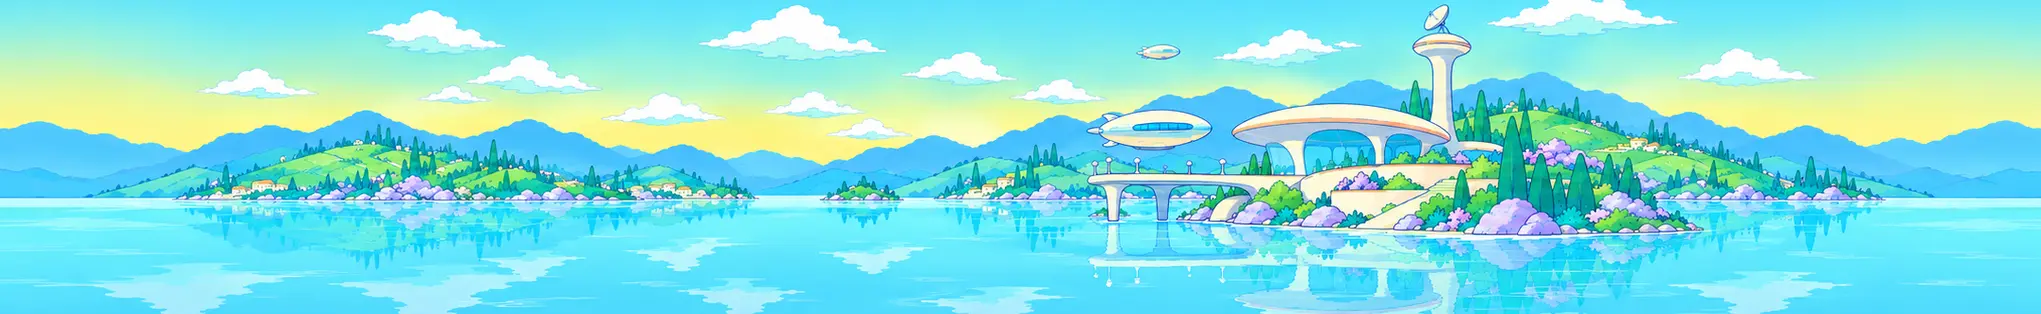
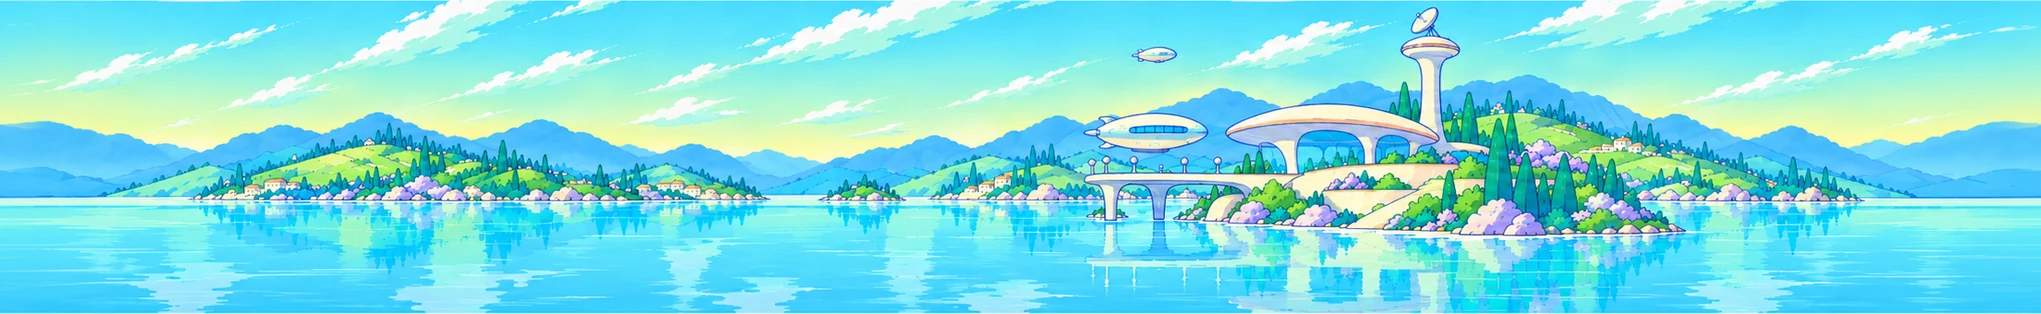
LOCAL: sub-page heroes replaced with style-7 panoramas

diff --git a/site/company.html b/site/company.html
@@ -19,7 +19,7 @@
 <link rel="preconnect" href="https://fonts.googleapis.com">
 <link rel="preconnect" href="https://fonts.gstatic.com" crossorigin>
 <link rel="stylesheet" href="https://fonts.googleapis.com/css2?family=Noto+Sans+JP:wght@400;500&amp;family=Noto+Serif+JP:wght@500;600&amp;display=swap">
-<link rel="stylesheet" href="styles.css?v=1792550775">
+<link rel="stylesheet" href="styles.css?v=1792551392">
 <script>document.documentElement.classList.add('js')</script>
 
 </head>
@@ -33,7 +33,7 @@
 </div>
 </header>
 <section class="page-hero">
-<div class="hero-bg"><img src="images/hero65_company.webp" alt="" width="1500" height="375" style="object-position:50% 50%;--mpos:50% 50%"></div>
+<div class="hero-bg"><img src="images/hero65_company.webp?v=9" alt="" width="2041" height="314" style="object-position:50% 50%;--mpos:50% 50%"></div>
 <div class="container" data-en="COMPANY"><p class="eyebrow">COMPANY</p><h1>法人概要</h1><nav class="breadcrumb" aria-label="パンくず"><a href="index.html">TOP</a> &gt; COMPANY</nav></div>
 </section>
 <main id="main"><section class="section"><div class="container split"><div class="split-head"><div class="section-head reveal"><p class="eyebrow">ABOUT US</p><h2 class="section-title">私たちについて</h2></div></div><div class="about-grid"><article class="about-card reveal"><h3>CELLACTは、再生医療の可能性を追求し、安全で質の高い医療をお届けします。</h3><p>CELLACTは、幹細胞療法や免疫細胞療法などの再生医療に取り組んでいます。日本では、2014年に再生医療等安全性確保法が施行され、厳格な規制のもとでの治療が求められています。私たちはこの法律を遵守し、安全かつ高度な再生医療の実践に努めています。完全予約制のプライベートな環境で、国内外の患者様一人ひとりに向き合っています。</p></article><article class="about-card reveal"><h3>細胞の品質と安全管理を大切に、一人ひとりに最適な再生医療を。</h3><p>再生医療において、治療に用いる細胞の品質と、それを支える技術の信頼性は極めて重要です。徹底した品質管理のもとで培養された細胞を用いることで、患者様一人ひとりに安心して治療を受けていただける環境を提供しています。再生医療に精通した医師が協力しながら診療を行い、患者様それぞれに最適な治療プランを設計します。</p></article></div></div></section>
@@ -74,6 +74,6 @@
 <div class="copy"><span>&copy; 2026 一般社団法人 CELLACT. All rights reserved.</span></div>
 </div>
 </footer>
-<script src="script.js?v=1792550775" defer></script>
+<script src="script.js?v=1792551392" defer></script>
 </body>
 </html>

diff --git a/site/news-archive.html b/site/news-archive.html
@@ -19,7 +19,7 @@
 <link rel="preconnect" href="https://fonts.googleapis.com">
 <link rel="preconnect" href="https://fonts.gstatic.com" crossorigin>
 <link rel="stylesheet" href="https://fonts.googleapis.com/css2?family=Noto+Sans+JP:wght@400;500&amp;family=Noto+Serif+JP:wght@500;600&amp;display=swap">
-<link rel="stylesheet" href="styles.css?v=1792550775">
+<link rel="stylesheet" href="styles.css?v=1792551392">
 <script>document.documentElement.classList.add('js')</script>
 
 </head>
@@ -33,7 +33,7 @@
 </div>
 </header>
 <section class="page-hero">
-<div class="hero-bg"><img src="images/hero65_news.webp" alt="" width="1500" height="375" style="object-position:50% 50%;--mpos:84% 50%"></div>
+<div class="hero-bg"><img src="images/hero65_news.webp?v=9" alt="" width="2041" height="314" style="object-position:50% 50%;--mpos:66% 50%"></div>
 <div class="container" data-en="NEWS"><p class="eyebrow">NEWS</p><h1>お知らせ</h1><nav class="breadcrumb" aria-label="パンくず"><a href="index.html">TOP</a> &gt; NEWS</nav></div>
 </section>
 <main id="main"><section class="section"><div class="container-narrow"><div class="section-head reveal"><p class="eyebrow">NEWS ARCHIVE</p><h2 class="section-title">お知らせ一覧</h2></div><ul class="news-list reveal"><li><a href="news-20270110-recruit.html"><time datetime="2027-01-10">2027.01.10</time><span class="tag warm">採用情報</span><span class="ttl">医療スタッフ募集のお知らせ</span><span class="chev" aria-hidden="true">→</span></a></li><li><a href="news-20270101-rename.html"><time datetime="2027-01-01">2027.01.01</time><span class="tag">クリニック情報</span><span class="ttl">N2クリニック銀座本院は「セルアクト クリニック銀座（CELLACT CLINIC GINZA）」へ名称変更しました。</span><span class="chev" aria-hidden="true">→</span></a></li><li><a href="news-20270101-renewal.html"><time datetime="2027-01-01">2027.01.01</time><span class="tag">お知らせ</span><span class="ttl">公式サイトをリニューアルしました。</span><span class="chev" aria-hidden="true">→</span></a></li></ul></div></section></main><footer class="site-footer">
@@ -49,6 +49,6 @@
 <div class="copy"><span>&copy; 2026 一般社団法人 CELLACT. All rights reserved.</span></div>
 </div>
 </footer>
-<script src="script.js?v=1792550775" defer></script>
+<script src="script.js?v=1792551392" defer></script>
 </body>
 </html>

diff --git a/site/recruit.html b/site/recruit.html
@@ -19,7 +19,7 @@
 <link rel="preconnect" href="https://fonts.googleapis.com">
 <link rel="preconnect" href="https://fonts.gstatic.com" crossorigin>
 <link rel="stylesheet" href="https://fonts.googleapis.com/css2?family=Noto+Sans+JP:wght@400;500&amp;family=Noto+Serif+JP:wght@500;600&amp;display=swap">
-<link rel="stylesheet" href="styles.css?v=1792550775">
+<link rel="stylesheet" href="styles.css?v=1792551392">
 <script>document.documentElement.classList.add('js')</script>
 
 </head>
@@ -32,8 +32,8 @@
 <nav class="gnav" id="gnav" aria-label="メインメニュー"><ul><li><a href="index.html">TOP</a></li><li><a href="business.html">BUSINESS</a></li><li><a href="company.html">COMPANY</a></li><li><a href="recruit.html" aria-current="page">RECRUIT</a></li><li><a href="news-archive.html">NEWS</a></li><li><a class="nav-cta" href="contact.php">CONTACT</a></li></ul></nav>
 </div>
 </header>
-<section class="page-hero flip">
-<div class="hero-bg"><img src="images/hero65_recruit.webp" alt="" width="1500" height="375" style="object-position:50% 50%;--mpos:72% 50%"></div>
+<section class="page-hero">
+<div class="hero-bg"><img src="images/hero65_recruit.webp?v=9" alt="" width="2041" height="314" style="object-position:50% 50%;--mpos:40% 50%"></div>
 <div class="container" data-en="RECRUIT"><p class="eyebrow">RECRUIT</p><h1>採用情報</h1><nav class="breadcrumb" aria-label="パンくず"><a href="index.html">TOP</a> &gt; RECRUIT</nav></div>
 </section>
 <main id="main"><section class="section"><div class="container split"><div class="split-head"><div class="section-head reveal"><p class="eyebrow">MESSAGE</p><h2 class="section-title">私たちの仕事は未来を再生すること。</h2></div></div>
@@ -55,6 +55,6 @@
 <div class="copy"><span>&copy; 2026 一般社団法人 CELLACT. All rights reserved.</span></div>
 </div>
 </footer>
-<script src="script.js?v=1792550775" defer></script>
+<script src="script.js?v=1792551392" defer></script>
 </body>
 </html>

diff --git a/site/business.html b/site/business.html
@@ -19,7 +19,7 @@
 <link rel="preconnect" href="https://fonts.googleapis.com">
 <link rel="preconnect" href="https://fonts.gstatic.com" crossorigin>
 <link rel="stylesheet" href="https://fonts.googleapis.com/css2?family=Noto+Sans+JP:wght@400;500&amp;family=Noto+Serif+JP:wght@500;600&amp;display=swap">
-<link rel="stylesheet" href="styles.css?v=1792550775">
+<link rel="stylesheet" href="styles.css?v=1792551392">
 <script>document.documentElement.classList.add('js')</script>
 
 </head>
@@ -33,7 +33,7 @@
 </div>
 </header>
 <section class="page-hero">
-<div class="hero-bg"><img src="images/hero65_business.webp" alt="" width="1500" height="375" style="object-position:50% 50%;--mpos:74% 50%"></div>
+<div class="hero-bg"><img src="images/hero65_business.webp?v=9" alt="" width="2041" height="314" style="object-position:50% 50%;--mpos:60% 50%"></div>
 <div class="container" data-en="BUSINESS"><p class="eyebrow">BUSINESS</p><h1>事業内容</h1><nav class="breadcrumb" aria-label="パンくず"><a href="index.html">TOP</a> &gt; BUSINESS</nav></div>
 </section>
 <main id="main"><section class="section"><div class="container"><div class="section-head reveal"><p class="eyebrow">FIELDS</p><h2 class="section-title">取り組んでいる再生医療</h2><p class="lead">細胞の力を活かした、3つの領域で医療を提供しています。</p></div><article class="service-detail reveal" id="stem"><div class="sd-media"><img src="images/cellact_stem.webp?v=3" alt="" loading="lazy" width="1500" height="857" data-pan></div>
@@ -70,6 +70,6 @@
 <div class="copy"><span>&copy; 2026 一般社団法人 CELLACT. All rights reserved.</span></div>
 </div>
 </footer>
-<script src="script.js?v=1792550775" defer></script>
+<script src="script.js?v=1792551392" defer></script>
 </body>
 </html>

diff --git a/site/news-20270101-rename.html b/site/news-20270101-rename.html
@@ -19,7 +19,7 @@
 <link rel="preconnect" href="https://fonts.googleapis.com">
 <link rel="preconnect" href="https://fonts.gstatic.com" crossorigin>
 <link rel="stylesheet" href="https://fonts.googleapis.com/css2?family=Noto+Sans+JP:wght@400;500&amp;family=Noto+Serif+JP:wght@500;600&amp;display=swap">
-<link rel="stylesheet" href="styles.css?v=1792550775">
+<link rel="stylesheet" href="styles.css?v=1792551392">
 <script>document.documentElement.classList.add('js')</script>
 
 </head>
@@ -33,7 +33,7 @@
 </div>
 </header>
 <section class="page-hero">
-<div class="hero-bg"><img src="images/hero65_news.webp" alt="" width="1500" height="375" style="object-position:50% 50%;--mpos:84% 50%"></div>
+<div class="hero-bg"><img src="images/hero65_news.webp?v=9" alt="" width="2041" height="314" style="object-position:50% 50%;--mpos:84% 50%"></div>
 <div class="container" data-en="NEWS"><p class="eyebrow">NEWS</p><h1>お知らせ</h1><nav class="breadcrumb" aria-label="パンくず"><a href="index.html">TOP</a> &gt; <a href="news-archive.html">NEWS</a> &gt; N2クリニック銀座本院は「セルアクト クリニック銀座（CELLACT CLINIC GINZA）」へ名称変更しました。</nav></div>
 </section>
 <main id="main"><section class="section"><div class="container-narrow"><article class="article reveal">
@@ -58,6 +58,6 @@
 <div class="copy"><span>&copy; 2026 一般社団法人 CELLACT. All rights reserved.</span></div>
 </div>
 </footer>
-<script src="script.js?v=1792550775" defer></script>
+<script src="script.js?v=1792551392" defer></script>
 </body>
 </html>

diff --git a/site/news-20270101-renewal.html b/site/news-20270101-renewal.html
@@ -19,7 +19,7 @@
 <link rel="preconnect" href="https://fonts.googleapis.com">
 <link rel="preconnect" href="https://fonts.gstatic.com" crossorigin>
 <link rel="stylesheet" href="https://fonts.googleapis.com/css2?family=Noto+Sans+JP:wght@400;500&amp;family=Noto+Serif+JP:wght@500;600&amp;display=swap">
-<link rel="stylesheet" href="styles.css?v=1792550775">
+<link rel="stylesheet" href="styles.css?v=1792551392">
 <script>document.documentElement.classList.add('js')</script>
 
 </head>
@@ -33,7 +33,7 @@
 </div>
 </header>
 <section class="page-hero">
-<div class="hero-bg"><img src="images/hero65_news.webp" alt="" width="1500" height="375" style="object-position:50% 50%;--mpos:84% 50%"></div>
+<div class="hero-bg"><img src="images/hero65_news.webp?v=9" alt="" width="2041" height="314" style="object-position:50% 50%;--mpos:84% 50%"></div>
 <div class="container" data-en="NEWS"><p class="eyebrow">NEWS</p><h1>お知らせ</h1><nav class="breadcrumb" aria-label="パンくず"><a href="index.html">TOP</a> &gt; <a href="news-archive.html">NEWS</a> &gt; 公式サイトをリニューアルしました。</nav></div>
 </section>
 <main id="main"><section class="section"><div class="container-narrow"><article class="article reveal">
@@ -57,6 +57,6 @@
 <div class="copy"><span>&copy; 2026 一般社団法人 CELLACT. All rights reserved.</span></div>
 </div>
 </footer>
-<script src="script.js?v=1792550775" defer></script>
+<script src="script.js?v=1792551392" defer></script>
 </body>
 </html>

diff --git a/site/news-20270110-recruit.html b/site/news-20270110-recruit.html
@@ -19,7 +19,7 @@
 <link rel="preconnect" href="https://fonts.googleapis.com">
 <link rel="preconnect" href="https://fonts.gstatic.com" crossorigin>
 <link rel="stylesheet" href="https://fonts.googleapis.com/css2?family=Noto+Sans+JP:wght@400;500&amp;family=Noto+Serif+JP:wght@500;600&amp;display=swap">
-<link rel="stylesheet" href="styles.css?v=1792550775">
+<link rel="stylesheet" href="styles.css?v=1792551392">
 <script>document.documentElement.classList.add('js')</script>
 
 </head>
@@ -33,7 +33,7 @@
 </div>
 </header>
 <section class="page-hero">
-<div class="hero-bg"><img src="images/hero65_news.webp" alt="" width="1500" height="375" style="object-position:50% 50%;--mpos:84% 50%"></div>
+<div class="hero-bg"><img src="images/hero65_news.webp?v=9" alt="" width="2041" height="314" style="object-position:50% 50%;--mpos:84% 50%"></div>
 <div class="container" data-en="NEWS"><p class="eyebrow">NEWS</p><h1>お知らせ</h1><nav class="breadcrumb" aria-label="パンくず"><a href="index.html">TOP</a> &gt; <a href="news-archive.html">NEWS</a> &gt; 医療スタッフ募集のお知らせ</nav></div>
 </section>
 <main id="main"><section class="section"><div class="container-narrow"><article class="article reveal">
@@ -57,6 +57,6 @@
 <div class="copy"><span>&copy; 2026 一般社団法人 CELLACT. All rights reserved.</span></div>
 </div>
 </footer>
-<script src="script.js?v=1792550775" defer></script>
+<script src="script.js?v=1792551392" defer></script>
 </body>
 </html>

diff --git a/site/contact_thanks.html b/site/contact_thanks.html
@@ -19,7 +19,7 @@
 <link rel="preconnect" href="https://fonts.googleapis.com">
 <link rel="preconnect" href="https://fonts.gstatic.com" crossorigin>
 <link rel="stylesheet" href="https://fonts.googleapis.com/css2?family=Noto+Sans+JP:wght@400;500&amp;family=Noto+Serif+JP:wght@500;600&amp;display=swap">
-<link rel="stylesheet" href="styles.css?v=1792550775">
+<link rel="stylesheet" href="styles.css?v=1792551392">
 <script>document.documentElement.classList.add('js')</script>
 
 </head>
@@ -33,7 +33,7 @@
 </div>
 </header>
 <section class="page-hero">
-<div class="hero-bg"><img src="images/hero65_contact.webp" alt="" width="1500" height="375" style="object-position:50% 50%;--mpos:62% 50%"></div>
+<div class="hero-bg"><img src="images/hero65_contact.webp?v=9" alt="" width="2041" height="314" style="object-position:50% 50%;--mpos:62% 50%"></div>
 <div class="container" data-en="CONTACT"><p class="eyebrow">CONTACT</p><h1>お問い合わせ</h1><nav class="breadcrumb" aria-label="パンくず"><a href="index.html">TOP</a> &gt; <a href="contact.php">CONTACT</a> &gt; 完了</nav></div>
 </section>
 <main id="main"><section class="section tint"><div class="container-narrow">
@@ -54,6 +54,6 @@
 <div class="copy"><span>&copy; 2026 一般社団法人 CELLACT. All rights reserved.</span></div>
 </div>
 </footer>
-<script src="script.js?v=1792550775" defer></script>
+<script src="script.js?v=1792551392" defer></script>
 </body>
 </html>

diff --git a/site/privacy.html b/site/privacy.html
@@ -19,7 +19,7 @@
 <link rel="preconnect" href="https://fonts.googleapis.com">
 <link rel="preconnect" href="https://fonts.gstatic.com" crossorigin>
 <link rel="stylesheet" href="https://fonts.googleapis.com/css2?family=Noto+Sans+JP:wght@400;500&amp;family=Noto+Serif+JP:wght@500;600&amp;display=swap">
-<link rel="stylesheet" href="styles.css?v=1792550775">
+<link rel="stylesheet" href="styles.css?v=1792551392">
 <script>document.documentElement.classList.add('js')</script>
 
 </head>
@@ -33,7 +33,7 @@
 </div>
 </header>
 <section class="page-hero">
-<div class="hero-bg"><img src="images/hero65_privacy.webp" alt="" width="1500" height="375" style="object-position:50% 50%;--mpos:50% 50%"></div>
+<div class="hero-bg"><img src="images/hero65_privacy.webp?v=9" alt="" width="2041" height="314" style="object-position:50% 50%;--mpos:50% 50%"></div>
 <div class="container" data-en="PRIVACY"><p class="eyebrow">PRIVACY</p><h1>プライバシーポリシー</h1><nav class="breadcrumb" aria-label="パンくず"><a href="index.html">TOP</a> &gt; プライバシーポリシー</nav></div>
 </section>
 <main id="main"><section class="section"><div class="container-narrow prose">
@@ -71,6 +71,6 @@
 <div class="copy"><span>&copy; 2026 一般社団法人 CELLACT. All rights reserved.</span></div>
 </div>
 </footer>
-<script src="script.js?v=1792550775" defer></script>
+<script src="script.js?v=1792551392" defer></script>
 </body>
 </html>

diff --git a/site/index.html b/site/index.html
@@ -19,7 +19,7 @@
 <link rel="preconnect" href="https://fonts.googleapis.com">
 <link rel="preconnect" href="https://fonts.gstatic.com" crossorigin>
 <link rel="stylesheet" href="https://fonts.googleapis.com/css2?family=Noto+Sans+JP:wght@400;500&amp;family=Noto+Serif+JP:wght@500;600&amp;display=swap">
-<link rel="stylesheet" href="styles.css?v=1792550775">
+<link rel="stylesheet" href="styles.css?v=1792551392">
 <script>document.documentElement.classList.add('js')</script>
 <script type="application/ld+json">{"@context":"https://schema.org","@type":"Organization","name":"一般社団法人 CELLACT","url":"https://n2cellact.or.jp/","logo":"https://n2cellact.or.jp/images/cellact_logo.png?v=151","telephone":"+81-3-3289-0202","email":"info@cellact.org","address":{"@type":"PostalAddress","postalCode":"104-0061","addressRegion":"東京都","addressLocality":"中央区","streetAddress":"銀座6-6-5 HULIC & New GINZA NAMIKI6 11F","addressCountry":"JP"}}</script>
 </head>
@@ -96,6 +96,6 @@
 <div class="copy"><span>&copy; 2026 一般社団法人 CELLACT. All rights reserved.</span></div>
 </div>
 </footer>
-<script src="script.js?v=1792550775" defer></script>
+<script src="script.js?v=1792551392" defer></script>
 </body>
 </html>

diff --git a/site/404.html b/site/404.html
@@ -19,7 +19,7 @@
 <link rel="preconnect" href="https://fonts.googleapis.com">
 <link rel="preconnect" href="https://fonts.gstatic.com" crossorigin>
 <link rel="stylesheet" href="https://fonts.googleapis.com/css2?family=Noto+Sans+JP:wght@400;500&amp;family=Noto+Serif+JP:wght@500;600&amp;display=swap">
-<link rel="stylesheet" href="styles.css?v=1792550775">
+<link rel="stylesheet" href="styles.css?v=1792551392">
 <script>document.documentElement.classList.add('js')</script>
 
 </head>
@@ -47,6 +47,6 @@
 <div class="copy"><span>&copy; 2026 一般社団法人 CELLACT. All rights reserved.</span></div>
 </div>
 </footer>
-<script src="script.js?v=1792550775" defer></script>
+<script src="script.js?v=1792551392" defer></script>
 </body>
 </html>

diff --git a/tools/build.py b/tools/build.py
@@ -168,7 +168,7 @@ def page_hero(en, title, bg, crumbs, pos='50% 50%', flip=False, tall=False, mpos
     bc = ' &gt; '.join(f'<a href="{h}">{l}</a>' for h, l in crumbs[:-1])
     bc = (bc + ' &gt; ' if bc else '') + esc(crumbs[-1][1])
     return f'''<section class="page-hero{" tall" if tall else ""}{" flip" if flip else ""}">
-<div class="hero-bg"><img src="images/{bg}" alt="" width="1500" height="375" style="object-position:{pos};--mpos:{mpos}"></div>
+<div class="hero-bg"><img src="images/{bg}?v=9" alt="" width="2041" height="314" style="object-position:{pos};--mpos:{mpos}"></div>
 <div class="container" data-en="{en}"><p class="eyebrow">{en}</p><h1>{title}</h1><nav class="breadcrumb" aria-label="パンくず">{bc}</nav></div>
 </section>
 '''
@@ -251,7 +251,7 @@ def build_index():
 def build_services():
     s = head('BUSINESS', '一般社団法人 CELLACT の事業内容。幹細胞療法、免疫細胞療法、幹細胞培養上清療法などの再生医療に取り組んでいます。', 'business.html')
     s += header('business.html')
-    s += page_hero('BUSINESS', '事業内容', 'hero65_business.webp', [('index.html', 'TOP'), ('business.html', 'BUSINESS')], pos='50% 50%', mpos='74% 50%')
+    s += page_hero('BUSINESS', '事業内容', 'hero65_business.webp', [('index.html', 'TOP'), ('business.html', 'BUSINESS')], pos='50% 50%', mpos='60% 50%')
     s += '<main id="main"><section class="section"><div class="container">'
     s += section_head('FIELDS', '取り組んでいる再生医療', False, '細胞の力を活かした、3つの領域で医療を提供しています。')
     for sv in SERVICES:
@@ -315,7 +315,7 @@ def build_recruit():
     for t, rows in pos:
         cards += f'<article class="position reveal"><h3>{t}</h3><dl>' + ''.join(f'<div><dt>{k}</dt><dd>{v}</dd></div>' for k, v in rows) + '</dl></article>'
     s = head('RECRUIT', '再生医療の現場で、医療の未来を共に築きませんか。看護師・受付スタッフの募集要項。', 'recruit.html', og_img='images/hero_recruit.webp')
-    s += header('recruit.html') + page_hero('RECRUIT', '採用情報', 'hero65_recruit.webp', [('index.html', 'TOP'), ('recruit.html', 'RECRUIT')], pos='50% 50%', mpos='72% 50%', flip=True)
+    s += header('recruit.html') + page_hero('RECRUIT', '採用情報', 'hero65_recruit.webp', [('index.html', 'TOP'), ('recruit.html', 'RECRUIT')], pos='50% 50%', mpos='40% 50%')
     s += f'''<main id="main"><section class="section"><div class="container split"><div class="split-head">{section_head('MESSAGE', '私たちの仕事は未来を再生すること。')}</div>
 <div class="reveal message"><p>再生医療の現場で、医療の未来を共に築きませんか？<br>私たちは、幹細胞療法や免疫細胞療法による再生医療のほか、幹細胞培養上清療法などを提供しています。</p>
 <p>未来の医療である「再生医療」の現場に、あなたのスキルと情熱を活かしませんか？<br>私たちは患者様の生活を再生し、希望を届けるために共に働ける仲間を探しています。</p>
@@ -329,7 +329,7 @@ def build_recruit():
 # ---------------------------------------------------------------- NEWS
 def build_news():
     s = head('NEWS', 'CELLACT からのお知らせ一覧。', 'news-archive.html', og_img='images/hero_top.webp')
-    s += header('news-archive.html') + page_hero('NEWS', 'お知らせ', 'hero65_news.webp', [('index.html', 'TOP'), ('news-archive.html', 'NEWS')], pos='50% 50%', mpos='84% 50%')
+    s += header('news-archive.html') + page_hero('NEWS', 'お知らせ', 'hero65_news.webp', [('index.html', 'TOP'), ('news-archive.html', 'NEWS')], pos='50% 50%', mpos='66% 50%')
     s += f'<main id="main"><section class="section"><div class="container-narrow">{section_head("NEWS ARCHIVE", "お知らせ一覧")}{news_list(NEWS)}</div></section></main>' + footer()
     write('news-archive.html', s)
     for n in NEWS:
